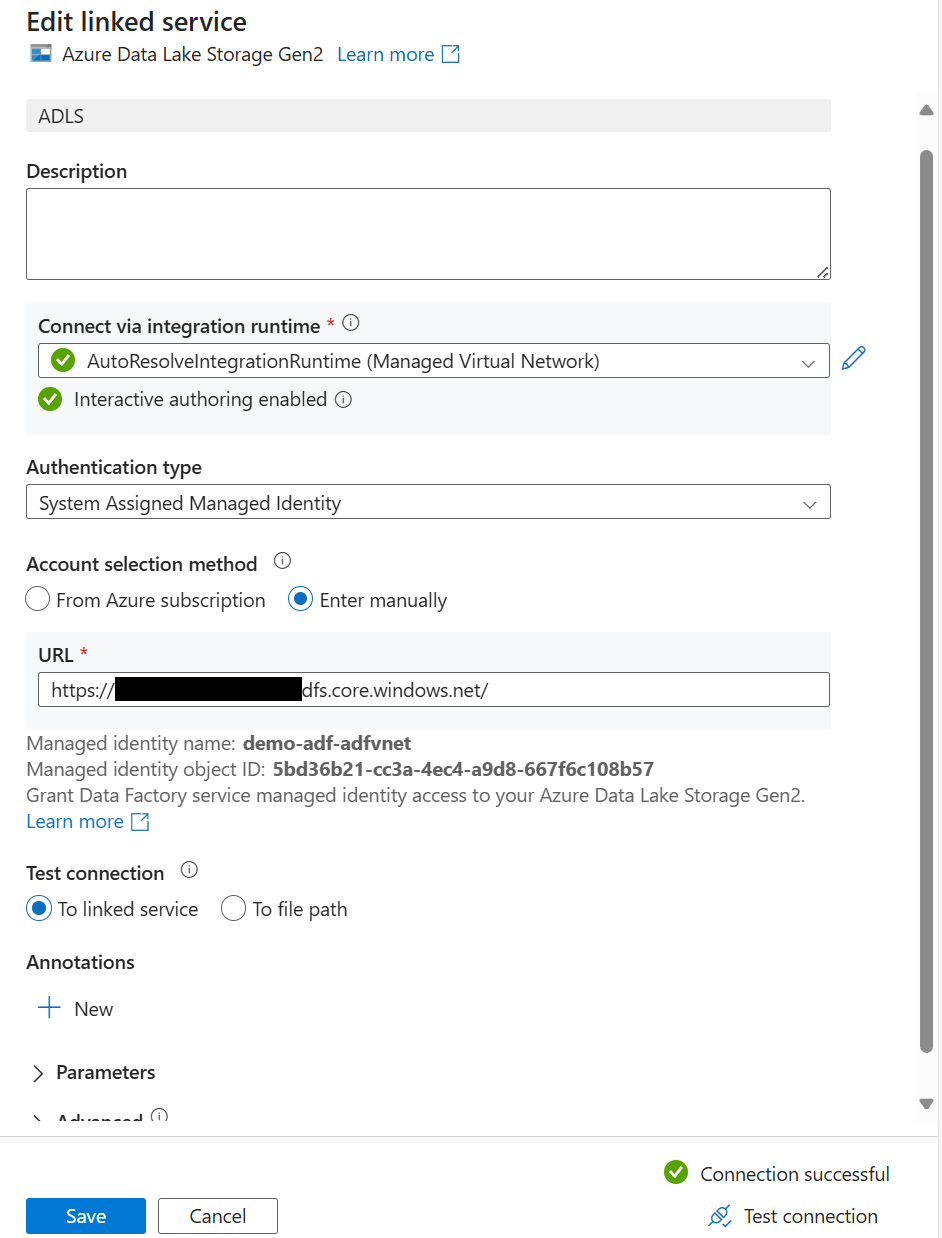
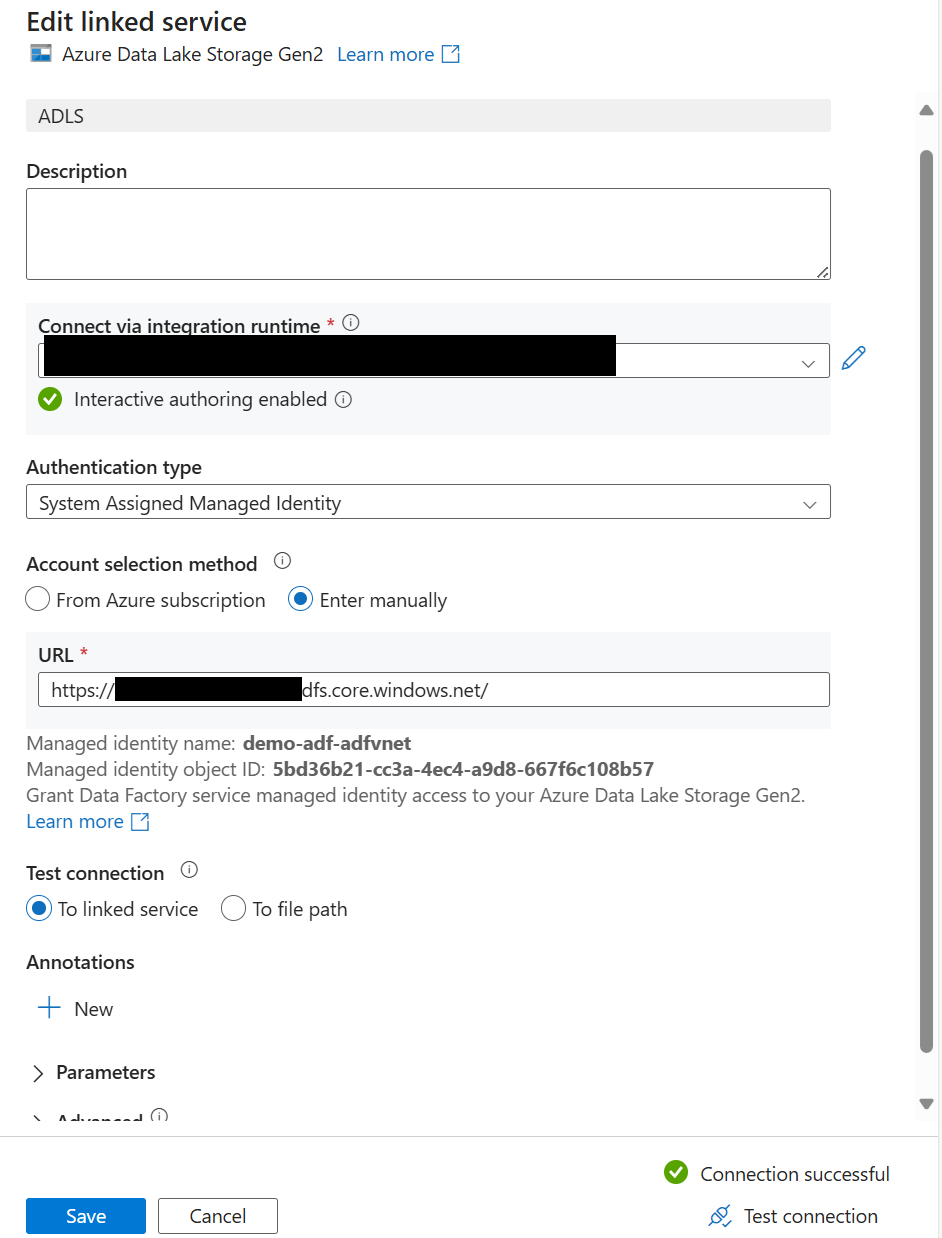
add business description, removed ir images

Changed region(s): [[0.0308, 0.2456, 0.6773, 0.3069]]

diff --git a/Workshop_3_MovieAnalytics_integrated.md b/Workshop_3_MovieAnalytics_integrated.md
@@ -1,16 +1,13 @@
 # Workshop 3: Movies Analytics using Azure Data Factory - integrated
 
-* Workshop cloned and enhanced originally from https://github.com/djpmsft/ADF_Labs/blob/master/MovieAnalytics_ADLS.md
+In this Lab, you will utilize Azure Data Factory's visual authoring experience to create a pipeline that copies movie data stored on a public storage account into an ADLSgen2 storage account in your own subscription and then executes a Mapping Data Flow to transform and write the data to a Azure SQL Database. The transformation can be described as followed:
+- Raw movie data is ingested into your own ADLSgen2 account
+- Data is cleansed, filter and aggregated to make it ready for a consumption
+- Data is eventually stored in an Azure SQL database where it can be exposed to build APIs, reports
 
-* If you're new to Azure Data Factory, see [Introduction to Azure Data Factory](https://docs.microsoft.com/azure/data-factory/introduction).
+The patterns corresponds with a [medaillion lakehouse architecture](https://learn.microsoft.com/en-us/azure/databricks/lakehouse/medallion). 
 
-In this Lab, you will utilize Azure Data Factory's visual authoring experience to create a pipeline that copies movie data stored in Azure Data Lake Storage Gen2 to a separate location in that storage account and then executes a Mapping Data Flow to transform and write the data to a Azure SQL Database.
-
-The patterns used in this lab are examples of a modern data warehouse ingestion and transformation scenario using Azure Data Factory.
-
-The a similar pipeline to the one created in this lab is available via the Azure Data Factory [Template Gallery](https://azure.microsoft.com/blog/get-started-quickly-using-templates-in-azure-data-factory/) under the name **Movie Analytics**
-
-Please allot about two hours to complete this lab end to end.
+Please allot about two hours to complete this lab end to end. Workshop cloned and enhanced originally from https://github.com/djpmsft/ADF_Labs/blob/master/MovieAnalytics_ADLS.md
 
 ## Prerequisites
 
@@ -63,13 +60,10 @@ Once your data factory is created and you open the ADF UX, the first step in you
     ![Authoring](./new_images_rbr/1_azure_blob_storage_dataset.png)
     1. In the file format list, select the DelimitedText format tile and click continue
     ![Authoring](./assets/MovieAnalytics/authoring6.png)
-    1. In Set Properties sidenav, give your dataset an understandable name and click on the Linked Service dropdown. If you have not created your Azure Storage Linked Service, select 'New'. Data will be fetched from a public storage account. As authentication type, select "Anonymous" and as URL take 
-
-
-    # `https://demoadfstormoviev3.blob.core.windows.net/sample-data`
-
-
-
+    1. In Set Properties sidenav, give your dataset an understandable name and click on the Linked Service dropdown. If you have not created your Azure Storage Linked Service, select 'New'. Data will be fetched from a public storage account. As authentication type, select "Anonymous" and as URL take: 
+      - `https://demoadfstormoviev3.blob.core.windows.net/sample-data`
+      -  **Also, make sure you know what integration runtime to connect to.**
+    <br />
     ![Authoring](./new_images_rbr/2_azure_blob_storage_linked_service.png)
     a. Once you have created and selected the linked service, specify the rest of your dataset settings. These settings specify how and where in your connection we want to pull the data. In the below image, the configuration is reading a delimited text file named `moviesDB.csv` in a container named `sample-data` and a folder named `input`. The file has a header which is why `first row as header` is enabled. This lab is getting the schema directly from the connection. Click finish once completed.
     ![Authoring](./new_images_rbr/3_blob_data_set_path.png)
@@ -82,8 +76,15 @@ Once your data factory is created and you open the ADF UX, the first step in you
     ![Authoring](./assets/MovieAnalytics/authoring15.png)
     1. Select the DelimitedText format tile and click continue
     ![Authoring](./assets/MovieAnalytics/authoring6.png)
-    1. In the Set Properties sidenav, give your dataset an understandable name and create a new `ADLS` linked service. Set  **Authentication Type** to **System Assigned Managed Identity**. Then this the connection (make sure that you have interactive auditing enabled on Managed VNET). **Make sure you know what storage account and what container to connect to.**
-
+    1. In the Set Properties sidenav, give your dataset an understandable name and create a new `ADLS` linked service. Set  **Authentication Type** to **System Assigned Managed Identity**. Then this the connection (make sure that you have interactive auditing enabled on Managed VNET). Two additional remarks:
+    <br />
+    <br />
+    <br />
+    - **Make sure you know what storage account and what container to connect to.**
+    - **Make sure you know what integration runtime to use.**
+    <br />
+    <br />
+    <br />
     ![Managed Identity](./new_images_rbr/106_ADF_storage_MI.png "Storage Managed Identity ADF").
 
      As you are writing to this dataset, you want to point the folder and file where you want moviesDB.csv copied to. In the example below, I am writing to the file 'moviesDB.csv' in the folder 'output' in the container 'sample-data'. While the folder and file can be dynamically created, the container must exist prior to writing to it. Set First row as header to be true. If you do not specify this setting, your data will be written without a header which can provide issues later in the lab. Do not specify a schema at this time. Click finish once completed.
@@ -247,16 +248,13 @@ Now that you have moved the data into ADLS, you are ready to build a Mapping Dat
 
     ![Managed Identity](./new_images_rbr/109_Azure_SQL_Linked_service.png "Storage Managed Identity ADF").
 
-
-    ![derive](./new_images_rbr/7_Azure_SQL_Database_linked_service.png "derive")
-
     In the Set properties pane, select **Create new table**. Enter in `dbo` for your schema name and `MovieAnalytics` for your table name. Click OK when finished. Make sure that you know hwat 
 
-    ![derive](./new_images_rbr/8_Azure_SQL_Database_new_table "derive")
+    ![derive](./new_images_rbr/8_Azure_SQL_Database_new_table.png "derive")
 
     Your Azure SQL sink is now fully configured.
 
-    ![derive](./new_images_rbr/9_Azure_SQL_Database_dataflows_sink "derive")
+    ![derive](./new_images_rbr/9_Azure_SQL_Database_dataflows_sink.png "derive")
 
 At this point, You have finished building your 7 transformation Mapping Data Flow. It's time to run the pipeline and see the results!
 
